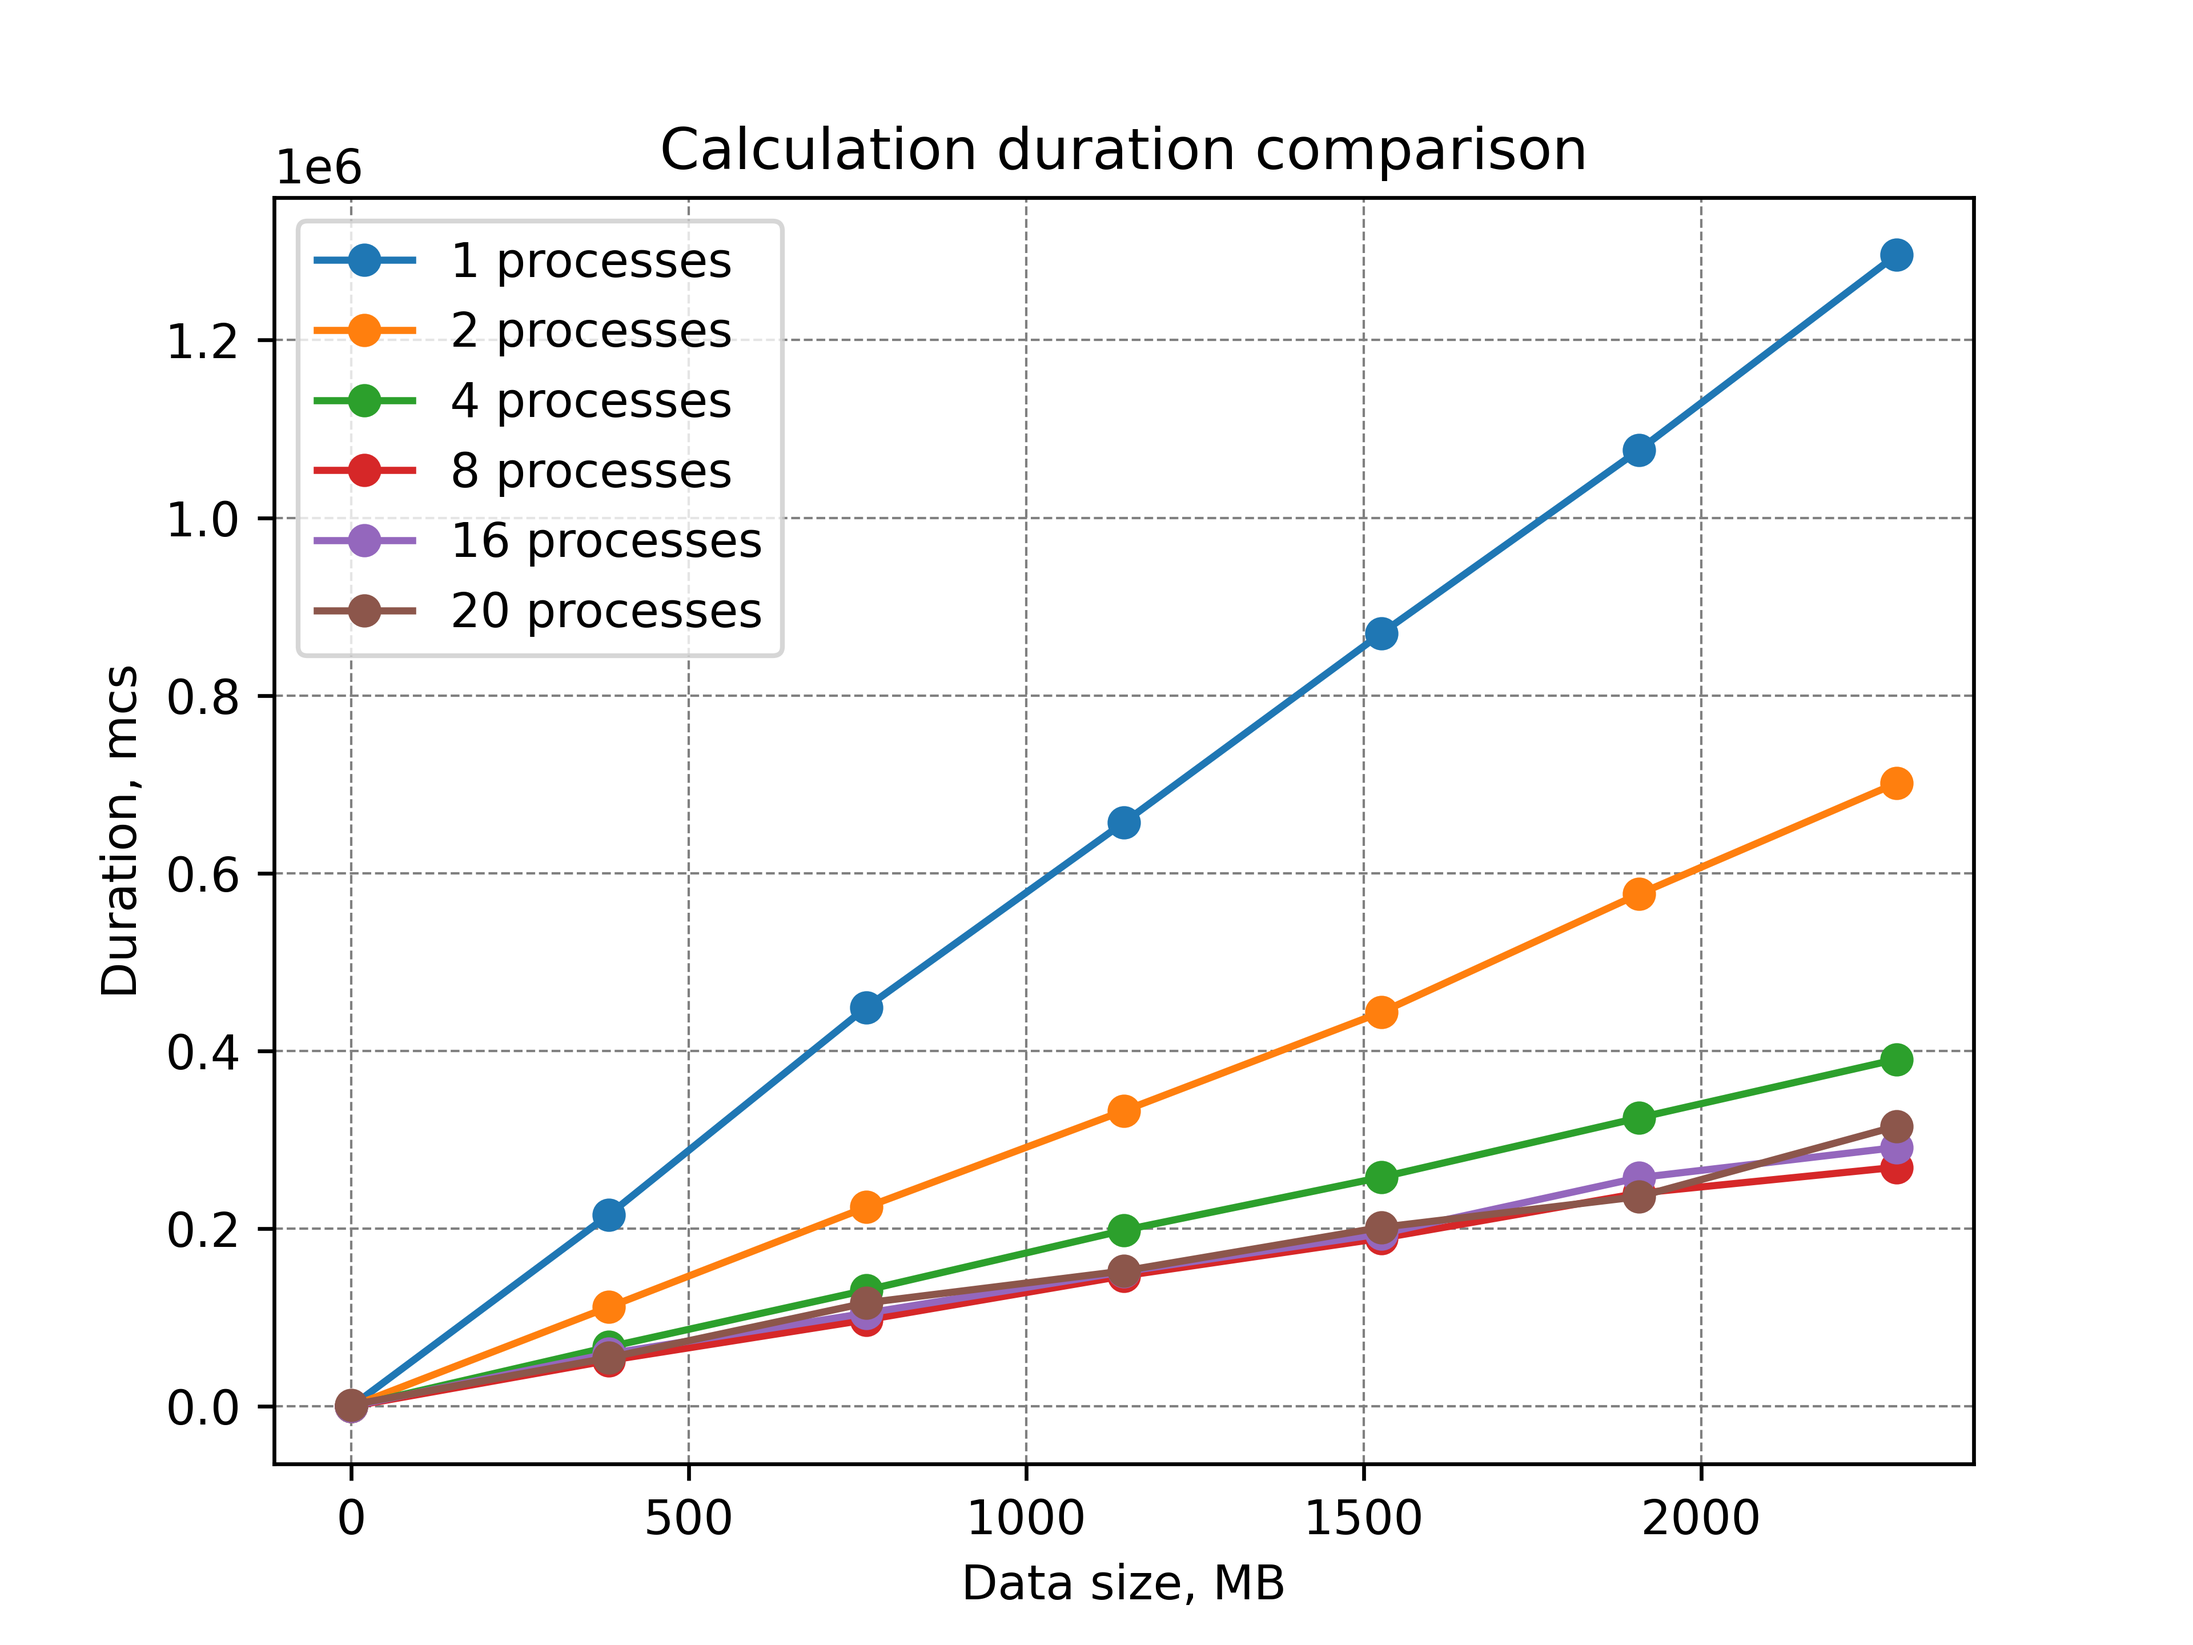
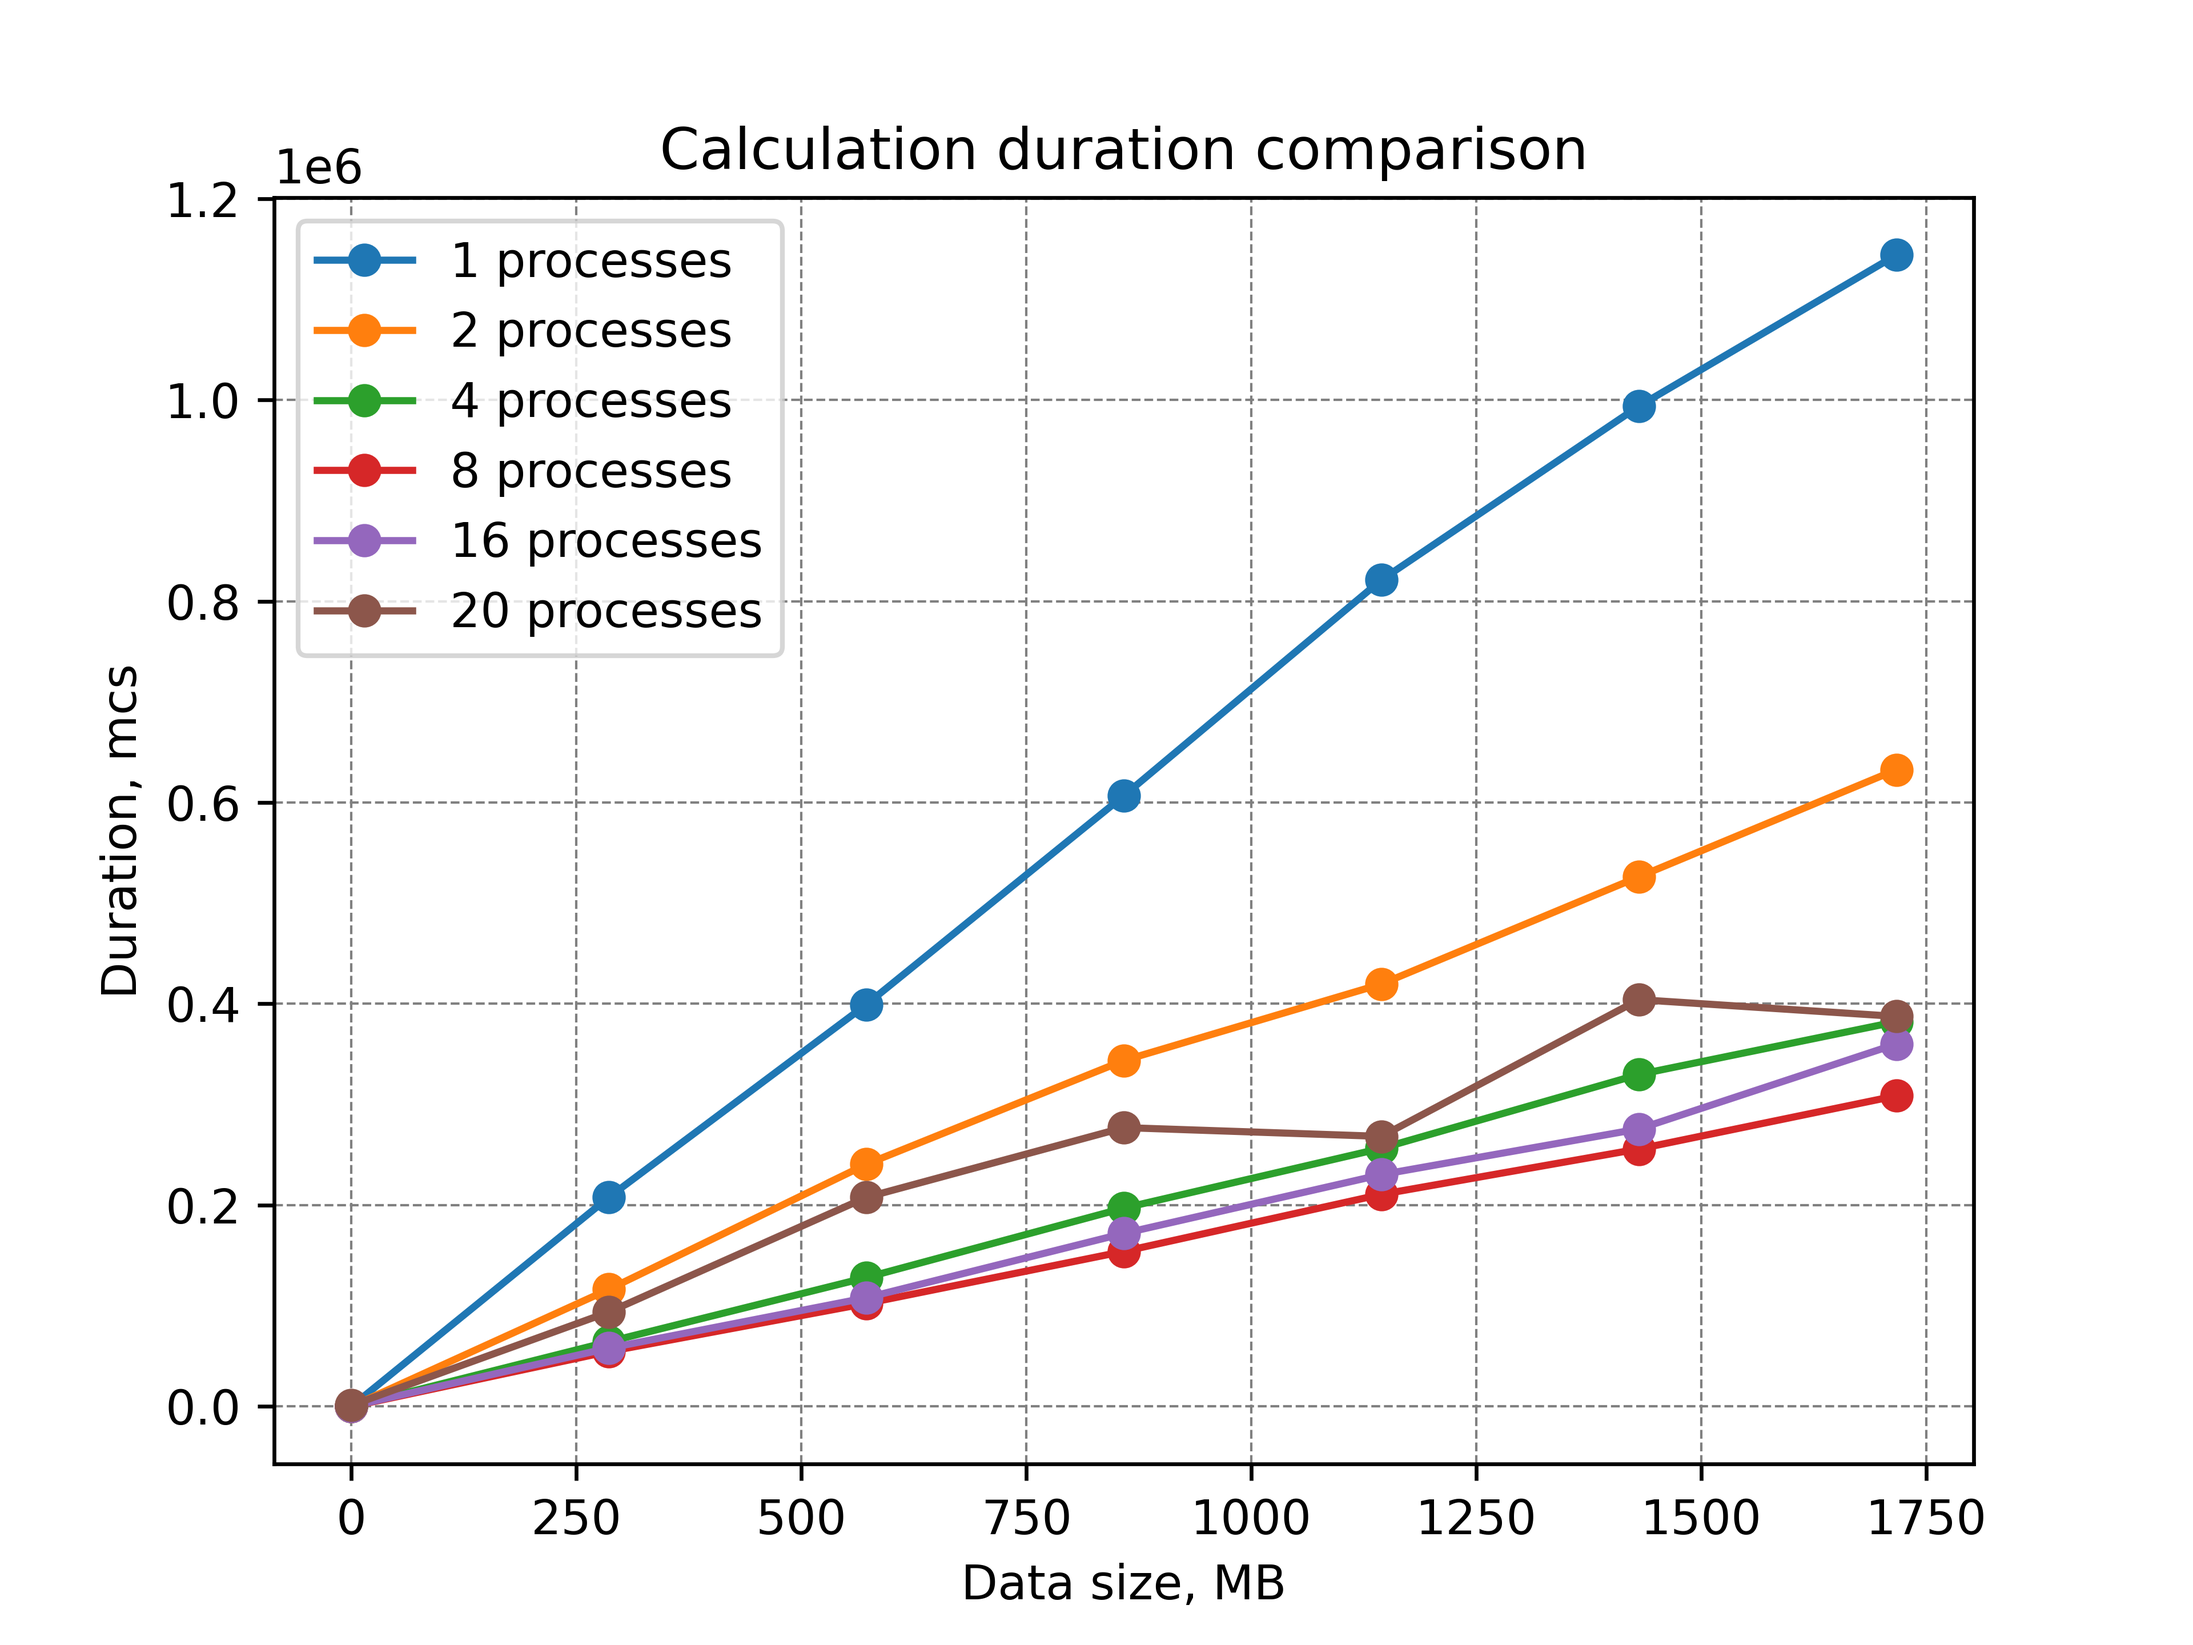
new comparison plot

diff --git a/LAB_3/main.cpp b/LAB_3/main.cpp
@@ -51,38 +51,38 @@ int main(int argc, char *argv[]) {
         readVectorsFromH5File(h5FileReader, data, numVectors, dimVectors);
     }
 
+    std::chrono::steady_clock::time_point startTime = std::chrono::steady_clock::now();
+
     MPI_Bcast(&numVectors, 1, MPI_INT, ROOT, MPI_COMM_WORLD);
     MPI_Bcast(&dimVectors, 1, MPI_INT, ROOT, MPI_COMM_WORLD);
 
-    int vectorsPerProcess = numVectors / worldSize;
     int remainingVectors = numVectors % worldSize;
+    int vectorsPerProcess = numVectors / worldSize;
 
-    int numLocalVectors = vectorsPerProcess + (rank <= remainingVectors && rank != 0 ? 1 : 0);
+    int numLocalVectors = vectorsPerProcess + (rank < remainingVectors && rank != 0 ? 1 : 0);
     std::vector<int> localVectors(numLocalVectors * dimVectors);
-    std::chrono::steady_clock::time_point startTime;
+
+    std::vector<int> sendCounts(worldSize, vectorsPerProcess * dimVectors);
+    std::vector<int> displacements(worldSize, 0);
+
+    for (int i = 0; i < remainingVectors; ++i) {
+        sendCounts[i] += dimVectors;
+    }
+
+    for (int i = 1; i < worldSize; ++i) {
+        displacements[i] = displacements[i - 1] + sendCounts[i - 1];
+    }
 
     if (rank == 0) {
         std::cout << "Start calculation..." << std::endl;
 
-        MPI_Scatter(data.data(), vectorsPerProcess * dimVectors, MPI_INT,
-                    localVectors.data(), vectorsPerProcess * dimVectors, MPI_INT,
-                    0, MPI_COMM_WORLD);
-
-        for (int i = 0; i < remainingVectors; ++i) {
-            MPI_Send(&(data[(vectorsPerProcess * worldSize + i) * dimVectors]), dimVectors,
-                     MPI_INT, i + 1, 0, MPI_COMM_WORLD);
-        }
-
-        startTime = std::chrono::steady_clock::now();
+        MPI_Scatterv(data.data(), sendCounts.data(), displacements.data(), MPI_INT,
+                     localVectors.data(), localVectors.size(), MPI_INT,
+                     ROOT, MPI_COMM_WORLD);
     } else {
-        MPI_Scatter(nullptr, 0, MPI_DATATYPE_NULL,
-                    localVectors.data(), vectorsPerProcess * dimVectors, MPI_INT,
-                    ROOT, MPI_COMM_WORLD);
-
-        if (rank <= remainingVectors) {
-            MPI_Recv((localVectors.data() + vectorsPerProcess * dimVectors), dimVectors, MPI_INT,
-                     ROOT, 0, MPI_COMM_WORLD, MPI_STATUS_IGNORE);
-        }
+        MPI_Scatterv(nullptr, nullptr, nullptr, MPI_DATATYPE_NULL,
+                     localVectors.data(), localVectors.size(), MPI_INT,
+                     ROOT, MPI_COMM_WORLD);
     }
 
     data.clear();
@@ -95,21 +95,23 @@ int main(int argc, char *argv[]) {
         lengths.resize(numVectors);
     }
 
-    MPI_Gather(localLengths.data(), vectorsPerProcess, MPI_DOUBLE,
-               lengths.data(), vectorsPerProcess, MPI_DOUBLE,
-               ROOT, MPI_COMM_WORLD);
+    sendCounts.clear();
+    displacements.clear();
 
-    if (rank == 0) {
-        for (int i = 0; i < remainingVectors; ++i) {
-            MPI_Recv(&(lengths[vectorsPerProcess * worldSize + i]), 1, MPI_DOUBLE,
-                     i + 1, 0, MPI_COMM_WORLD, MPI_STATUS_IGNORE);
-        }
-    } else {
-        if (rank <= remainingVectors) {
-            MPI_Send(&(localLengths.back()), 1,
-                     MPI_DOUBLE, ROOT, 0, MPI_COMM_WORLD);
-        }
+    sendCounts.resize(worldSize, vectorsPerProcess);
+    displacements.resize(worldSize, 0);
+
+    for (int i = 0; i < remainingVectors; ++i) {
+        sendCounts[i] += 1;
     }
+
+    for (int i = 1; i < worldSize; ++i) {
+        displacements[i] = displacements[i - 1] + sendCounts[i - 1];
+    }
+
+    MPI_Gatherv(localLengths.data(), numLocalVectors, MPI_DOUBLE,
+                lengths.data(), sendCounts.data(), displacements.data(), MPI_DOUBLE,
+                ROOT, MPI_COMM_WORLD);
 
     localLengths.clear();
 

diff --git a/client/gather_data.py b/client/gather_data.py
@@ -13,7 +13,8 @@ TCP_RUN = ['python3', '../client/client.py', '127.0.0.1', '12345', 'data.h5']
 NO_TCP_RUN = ['python3', '../client/client.py', 'data.h5']
 
 # change -np value as you wish
-N_PROC_VAL = 16
+N_PROC_VAL = 20
+N_ROUNDS = 5
 MPI_RUN = f'/usr/local/bin/mpirun -np {N_PROC_VAL} /home/tishran/CLionProjects/HST_LAB/LAB_3/cmake-build-debug/LAB_3 data.h5'.split()
 
 
@@ -45,7 +46,7 @@ def main():
         curr_size = start_num_vectors * dim_vectors * 4 / 1024 / 1024
         calculation_times[curr_size] = 0
 
-        for i in range(10):
+        for i in range(N_ROUNDS):
             result = subprocess.run(
                 (NO_TCP_RUN if mpi else TCP_RUN) + ['-n', str(start_num_vectors), '-d', str(dim_vectors)],
                 capture_output=True,
